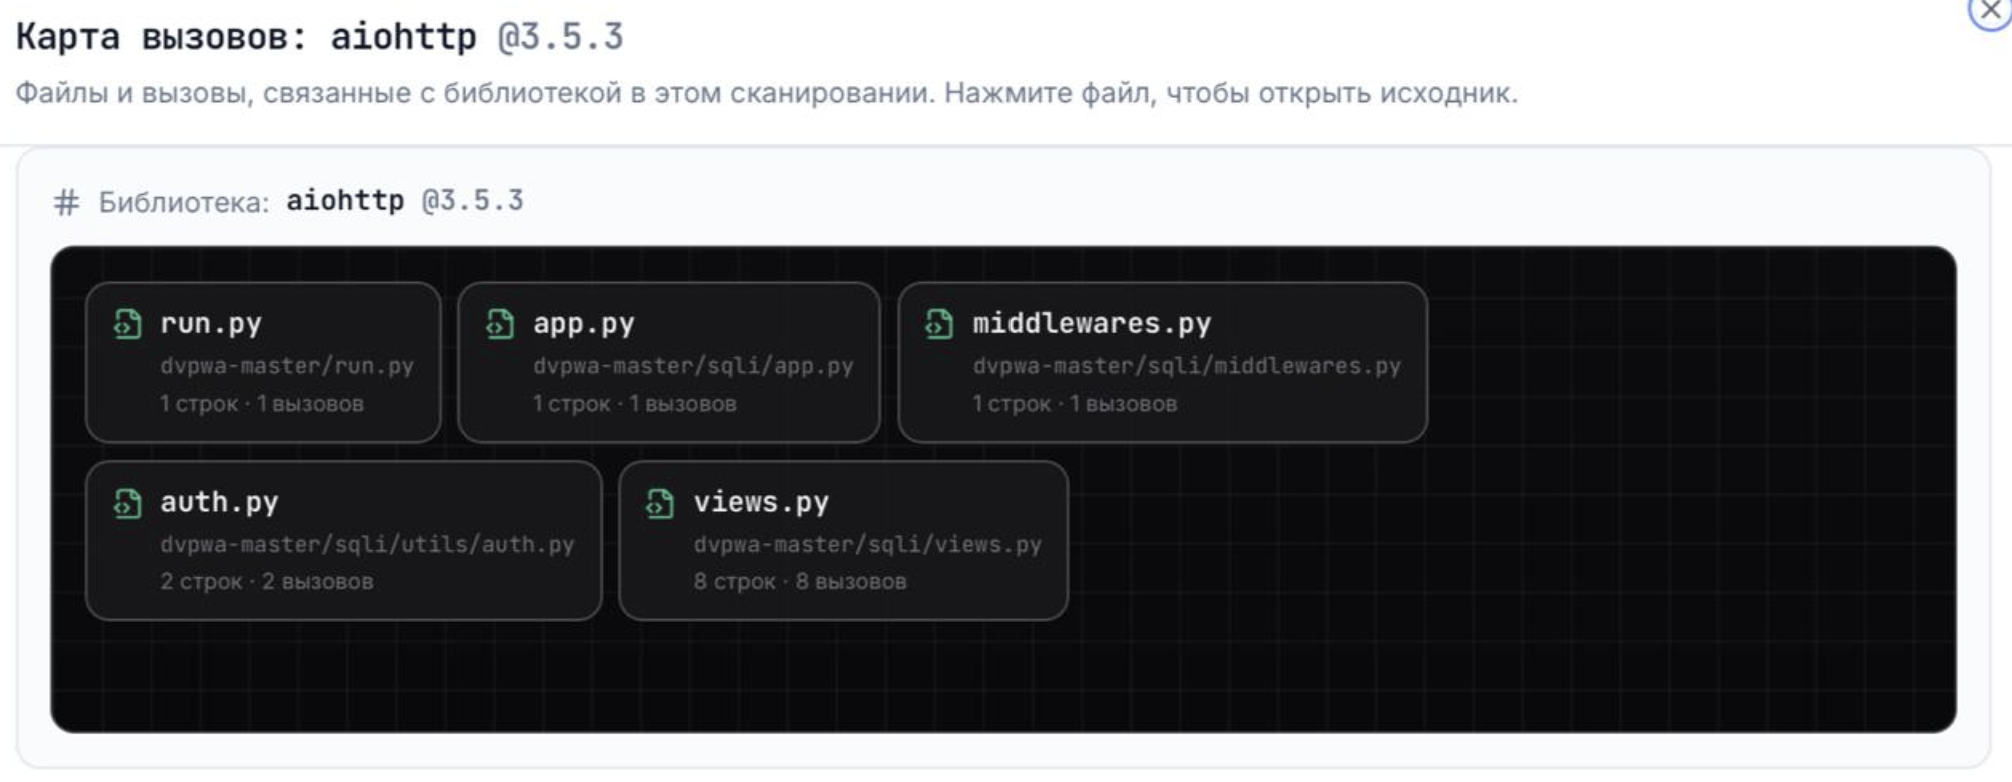
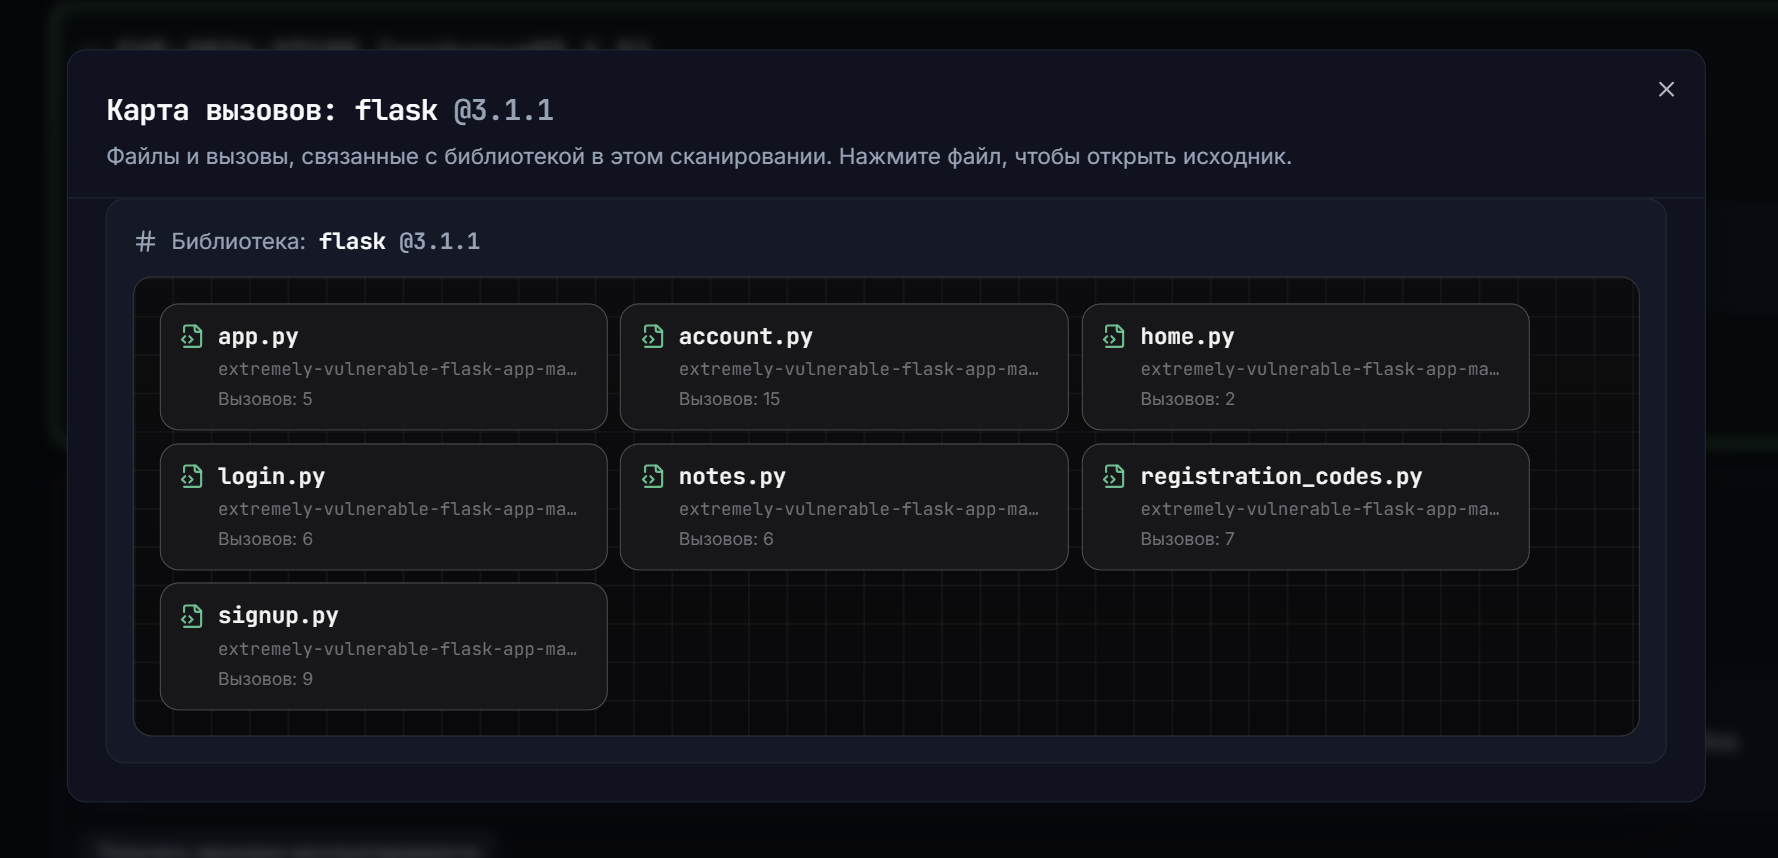
update README

diff --git a/README.md b/README.md
@@ -127,6 +127,8 @@ KIRTA показывает путь от загрузки Python-проекта 
 
 ![KIRTA AI explanation](docs/assets/finding-ai.png)
 
+![KIRTA AI sec explanation](docs/assets/finding-sec-ai.png)
+
 ### Карта вызовов
 
 ![KIRTA call map](docs/assets/call-map.png)